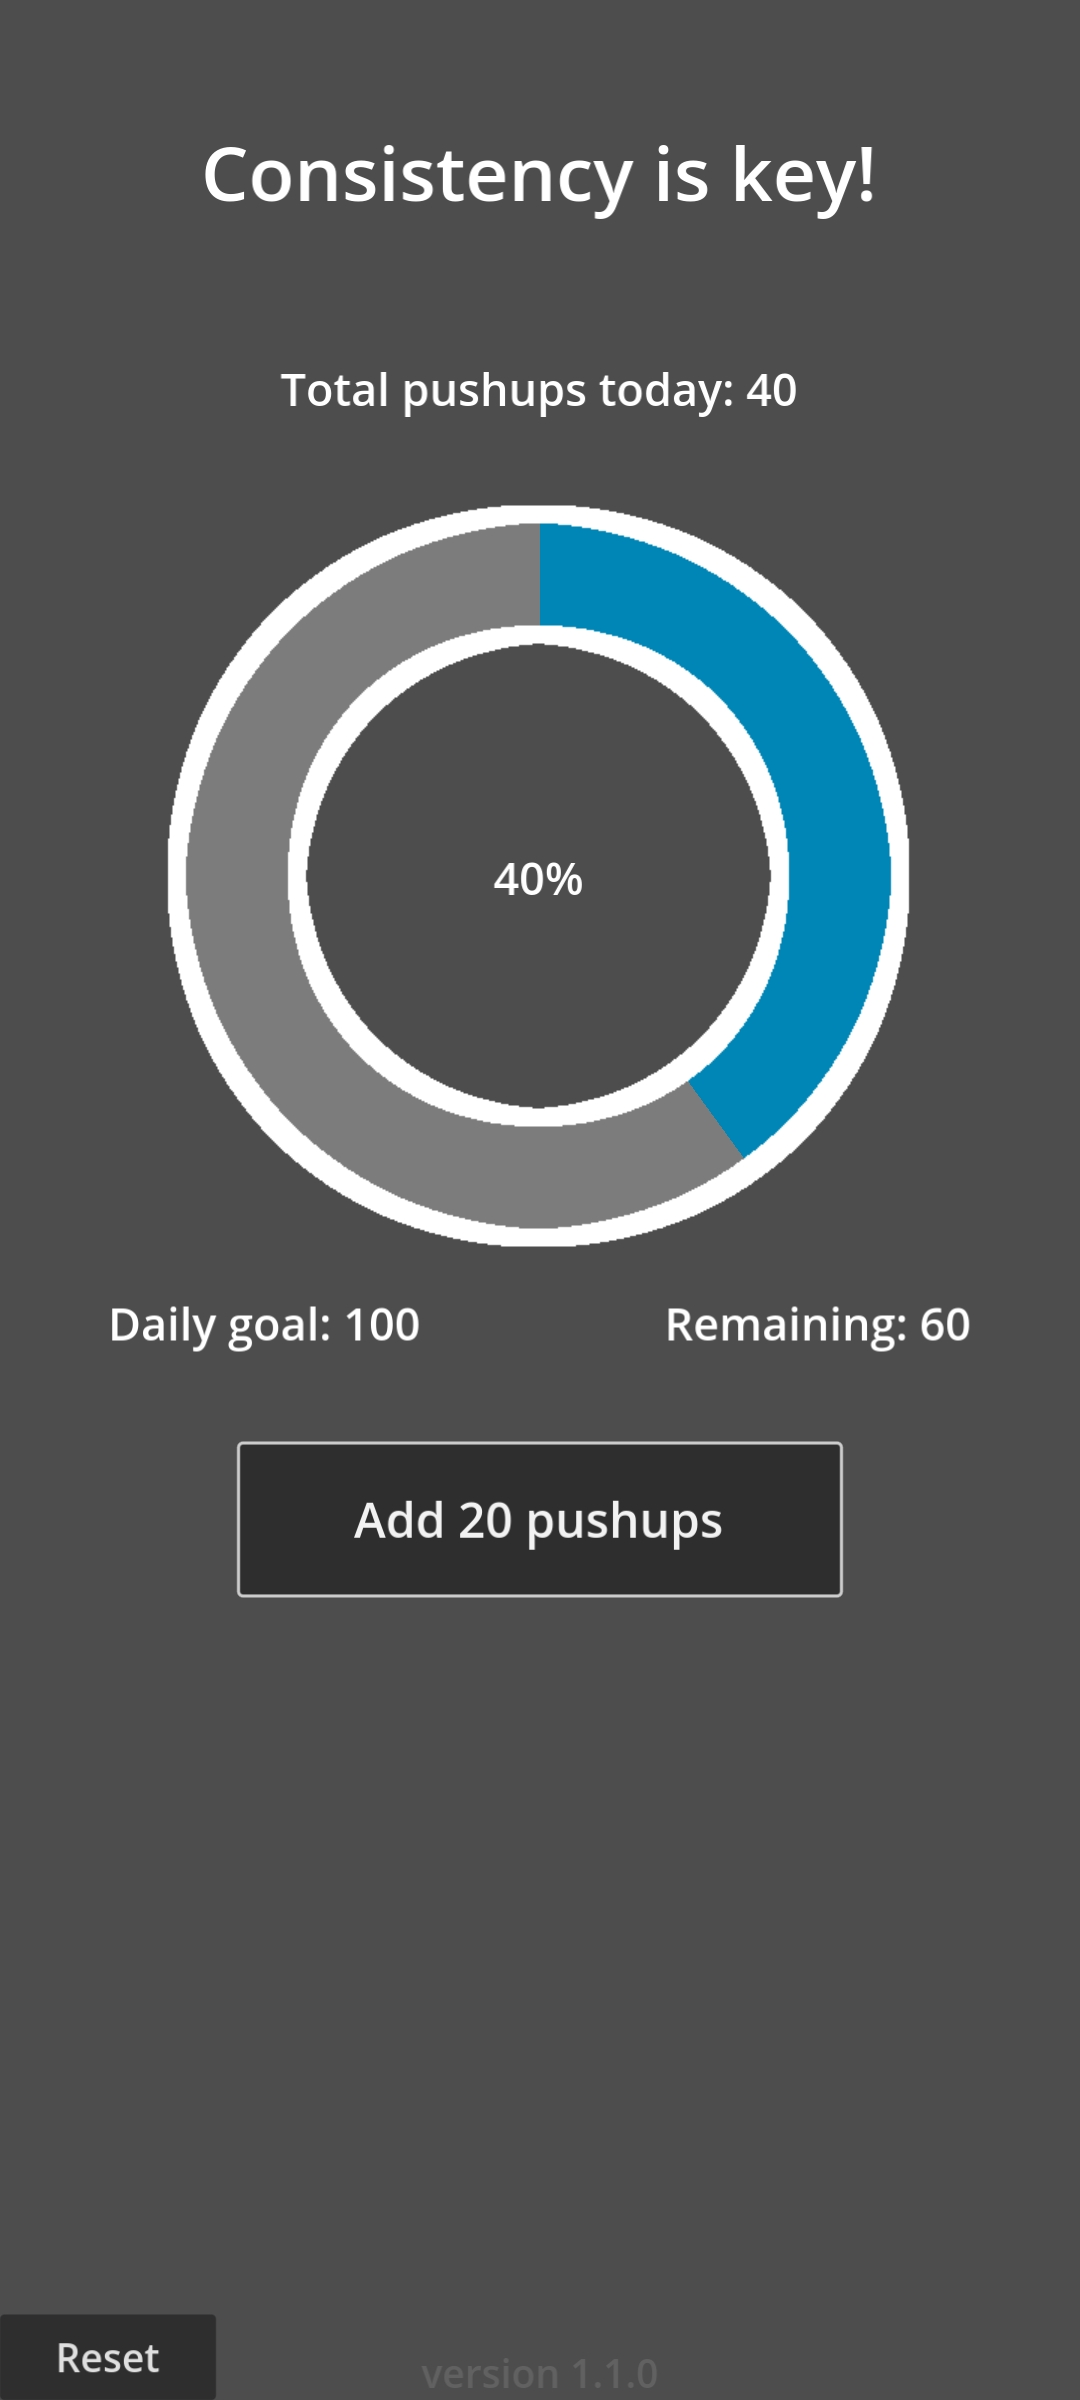
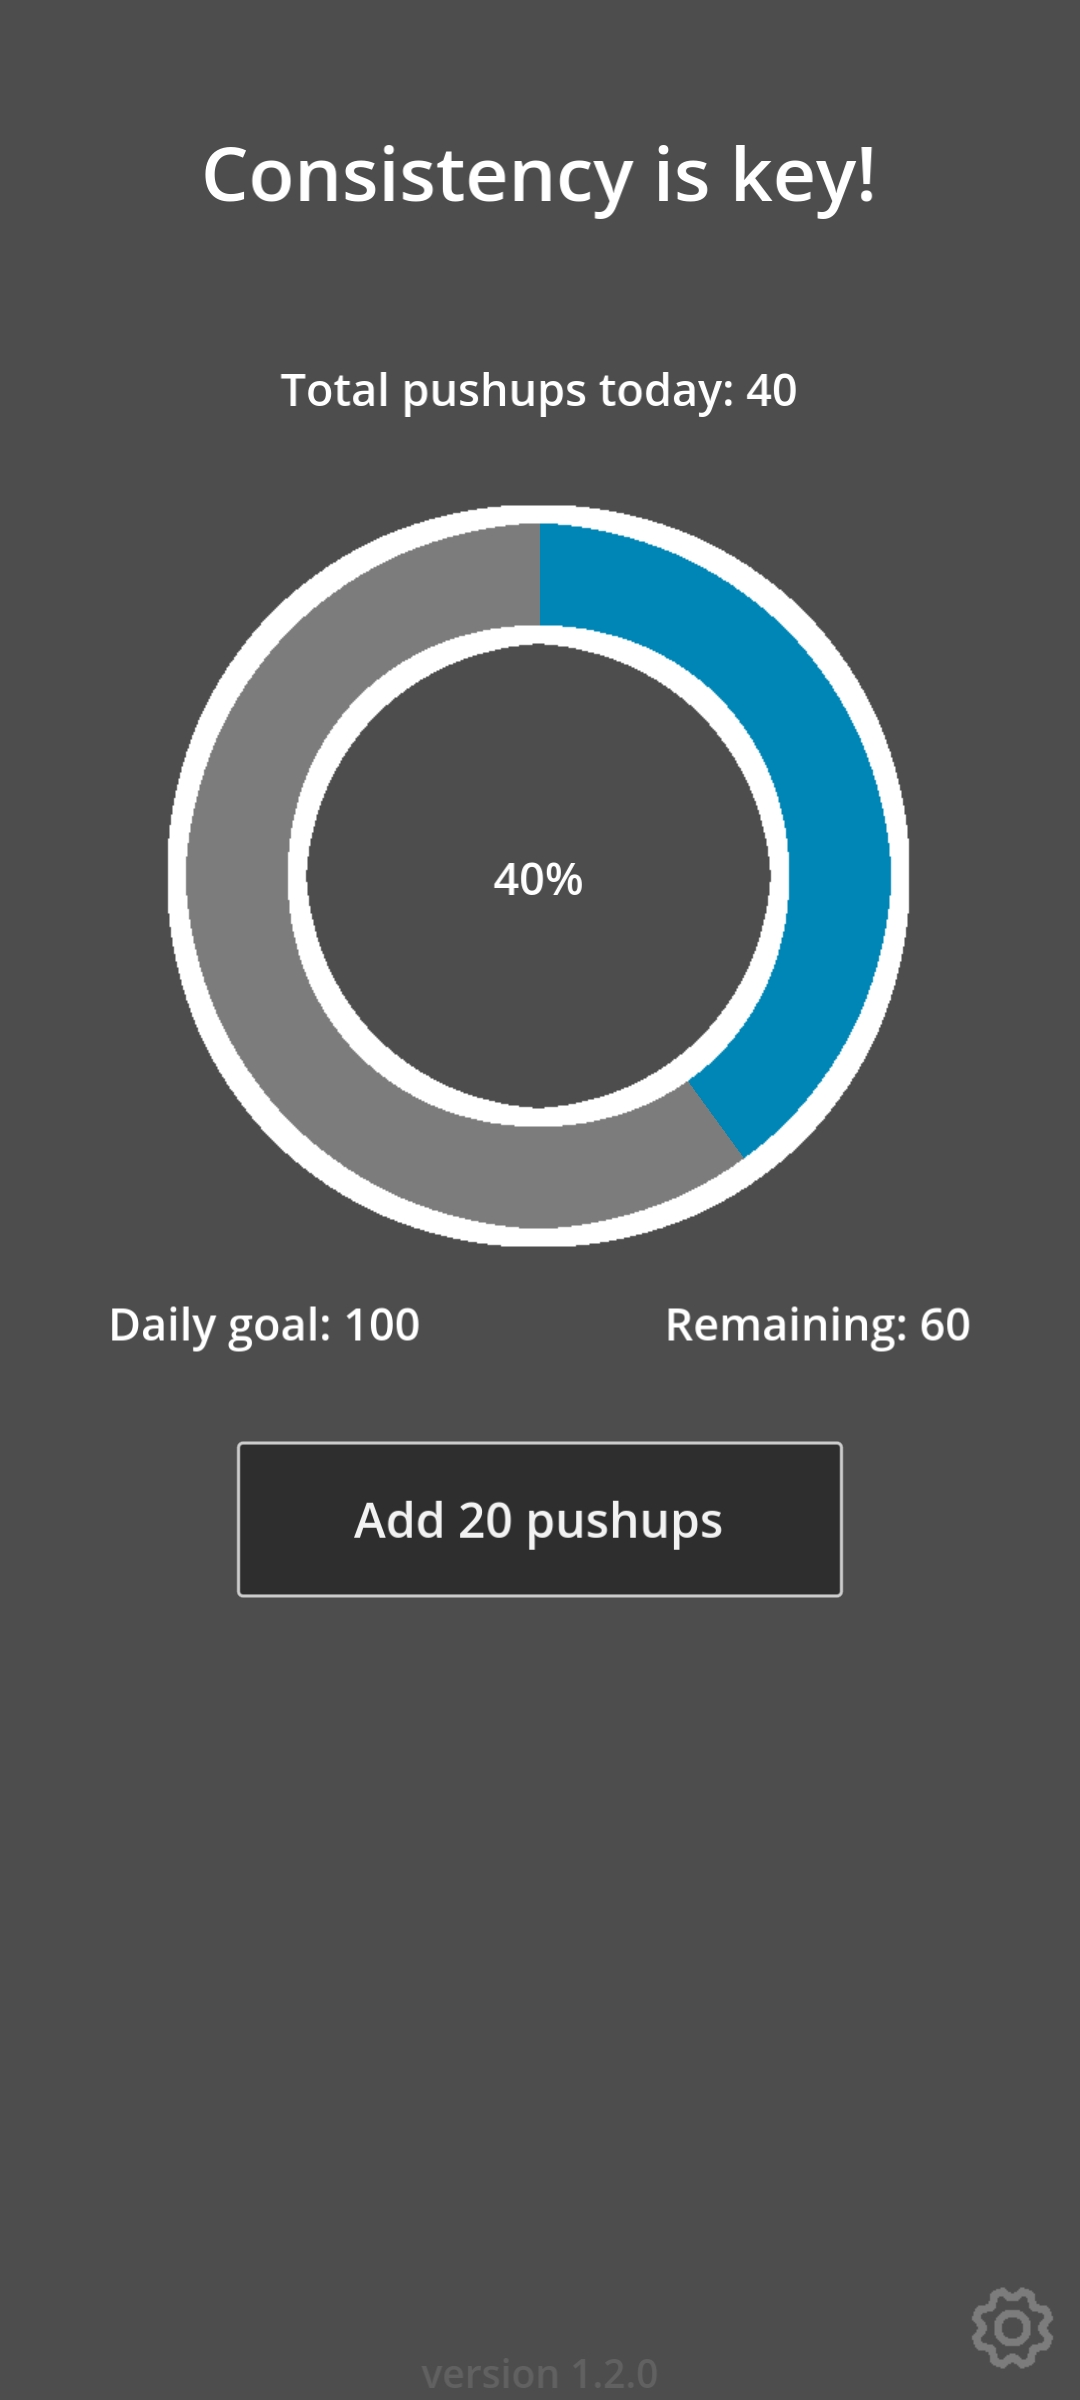
Finish daily goals & pushup per session settings
Completed implementation of custom daily goals and pushups per session option.

Changed region(s): [[0.0, 0.9375, 0.2139, 1.0], [0.8861, 0.9375, 0.9778, 1.0]]

diff --git a/README.md b/README.md
@@ -8,12 +8,12 @@ Created with [Godot Game Engine [4.3.dev4]](https://godotengine.org/).
 
 <br>
 
-<p align="center"><img src="app_screenshot.png" width="40%" ></p>
+<p align="center"><img src="app_screenshot.png" width="40%" alt="app_screenshot.png" ></p>
 
 ## Roadmap
 * ~~Implement pop-up confirmation for resetting saved progression~~
 * ~~Provide reset options for saved progression~~
-* Custom daily goals & pushups per session option
+* ~~Custom daily goals & pushups per session option~~
 * Visual theme update
 * Integrate logging system for saving and loading processes
 * Add notification for saved progression status
